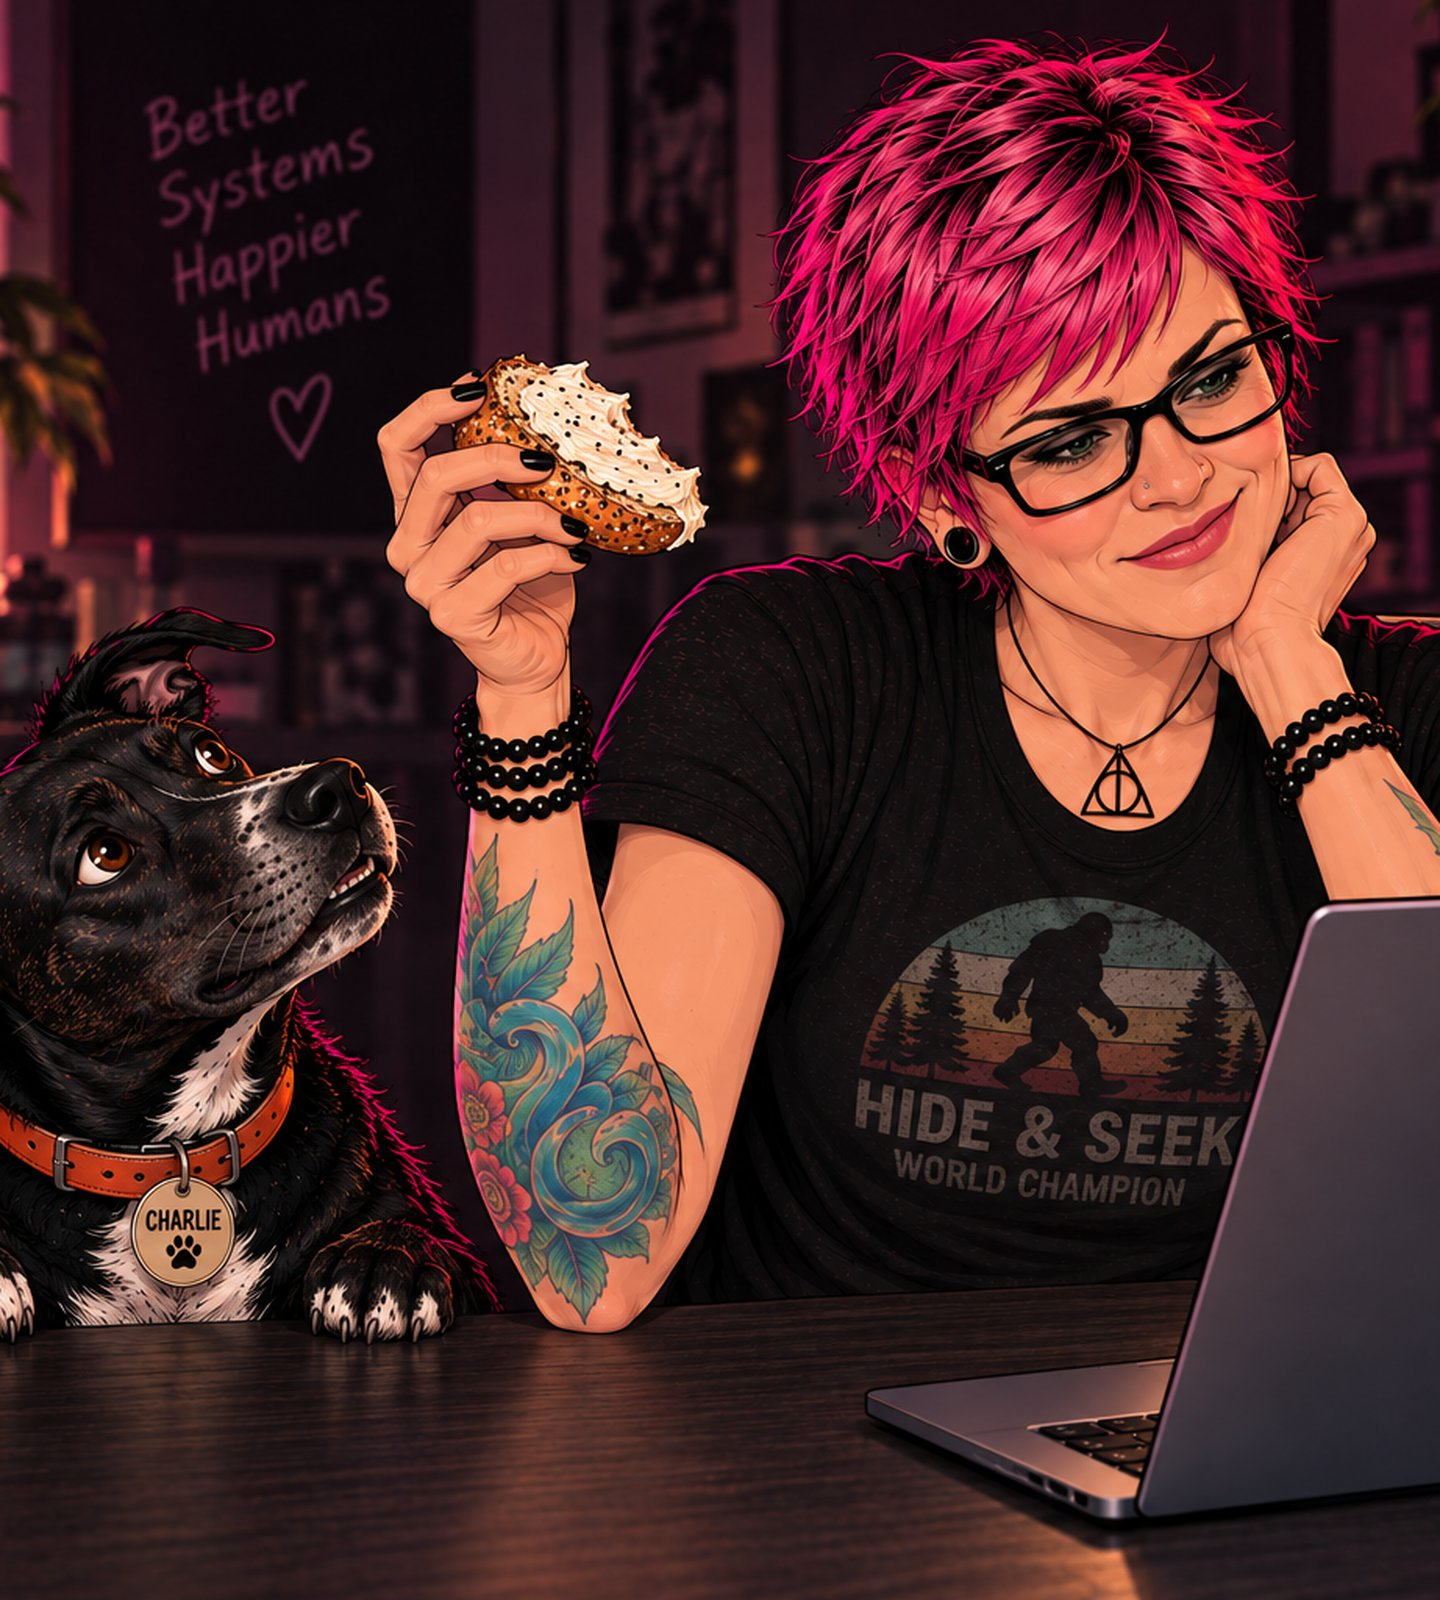
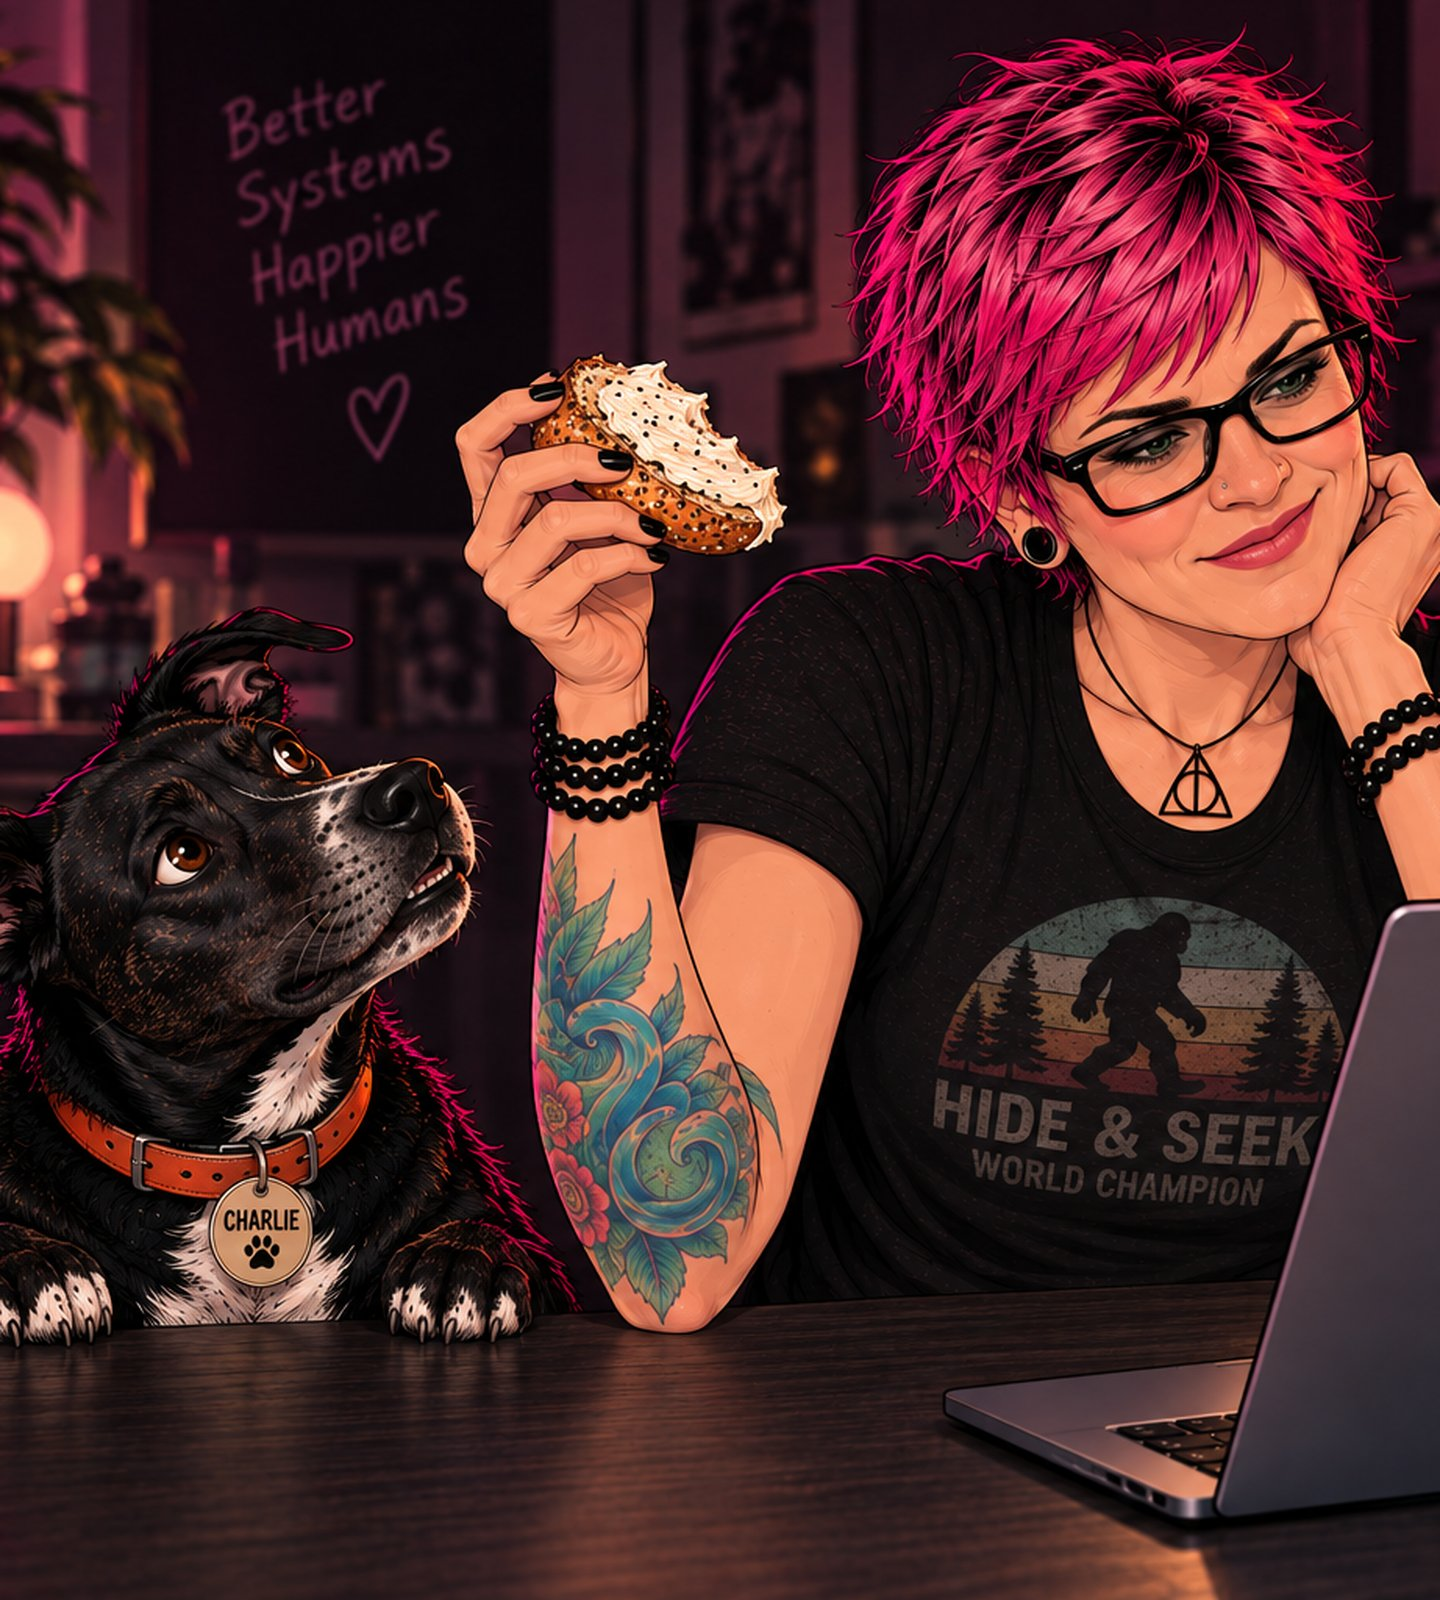
Hero art anchors right so Charlie's side crops first
Desktop column narrows toward Ernie instead of the centre; stacked layout
keeps the centred wide crop. Tall crop re-cut to include all of Charlie.

diff --git a/index.html b/index.html
@@ -173,7 +173,9 @@
       width: 100%;
       height: 100%;
       object-fit: cover;
-      object-position: center;
+      /* anchored right: as the column narrows, Charlie's side goes first
+         and Ernie stays in frame until the layout stacks */
+      object-position: 100% 50%;
     }
 
     .hero-copy {
@@ -756,6 +758,7 @@
         min-height: 0;
       }
       .hero-art { order: 1; height: clamp(260px, 46vw, 400px); }
+      .hero-art img { object-position: center; }
       .hero-art::after {
         background: linear-gradient(to top, var(--plum-dark) 0%, rgba(58,16,37,0.5) 30%, transparent 62%);
       }
